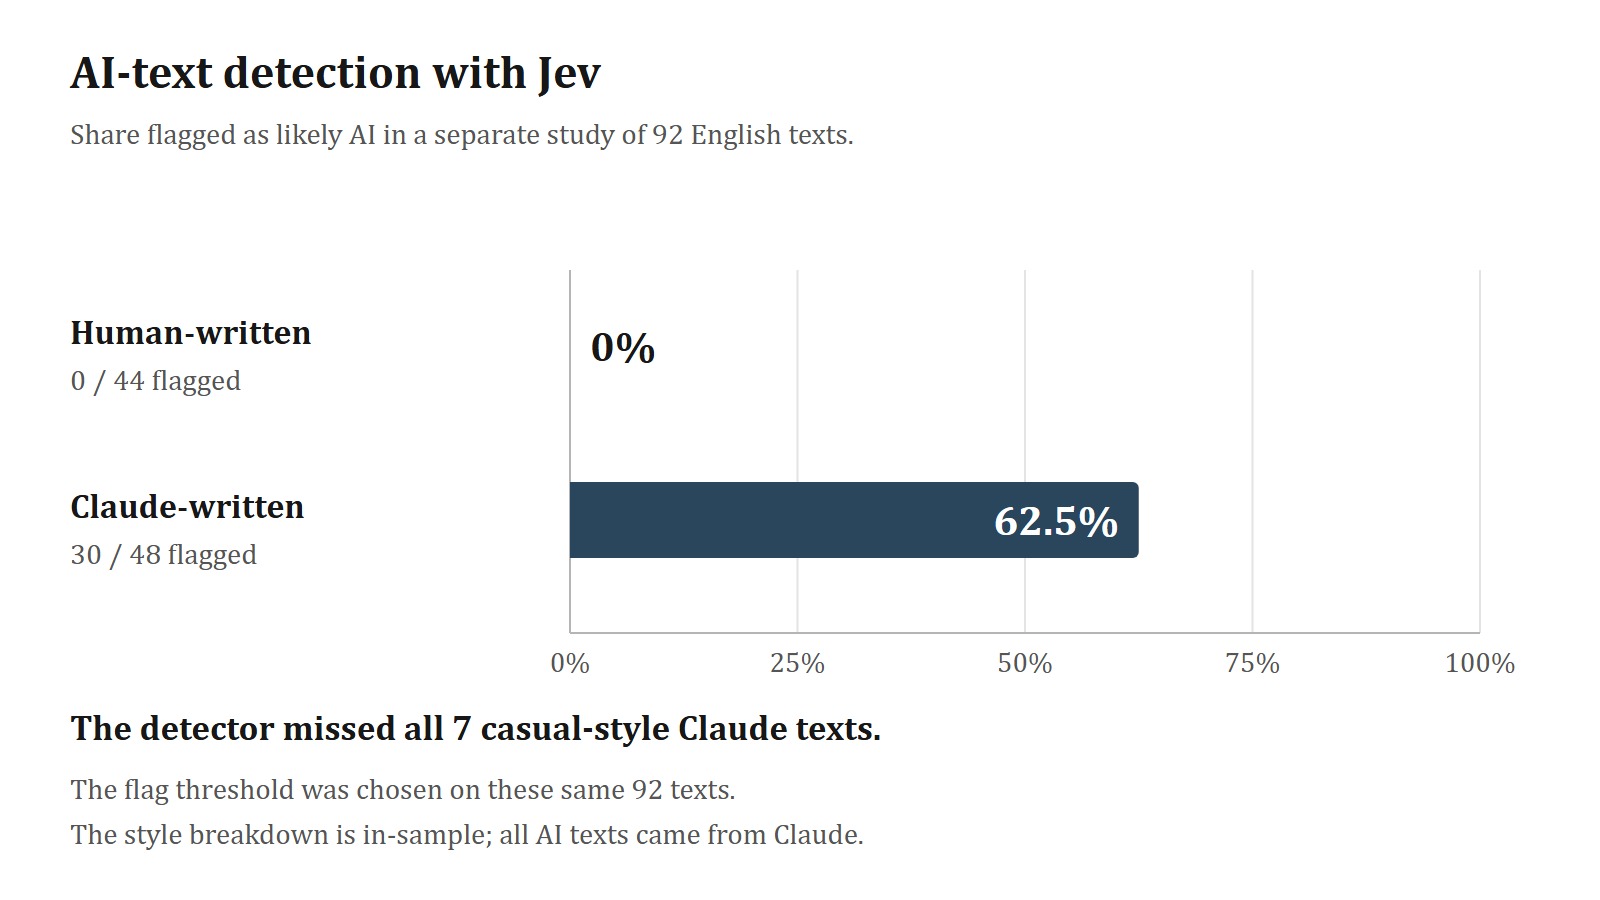
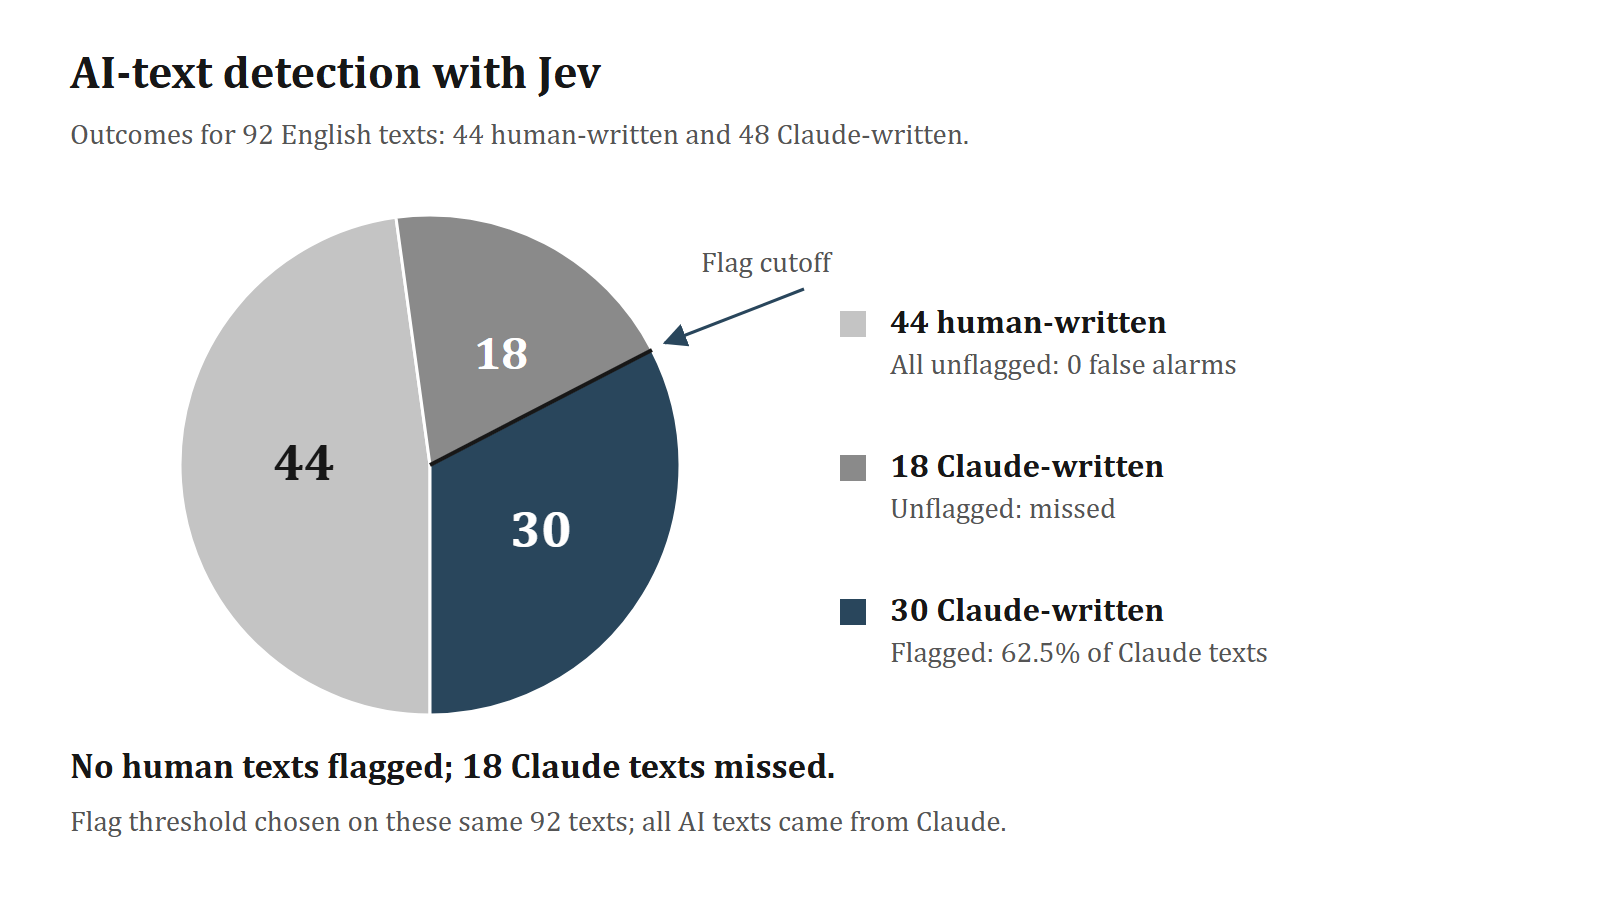
Redraw AI-text figure as 92-text pie

diff --git a/thread/tweets.md b/thread/tweets.md
@@ -32,7 +32,7 @@ On 92 English texts, it flagged 30/48 Claude-written samples and 0/44 human samp
 
 That gave us a useful lesson about turning fast judgments into decisions: the question design and the cases you test can change the story. Our next test was closer to the work we actually want to do.
 
-![In a separate AI-text detection study using Jev, a fitted rule flagged 0 of 44 human-written texts and 30 of 48 Claude-written texts, or 62.5%, as likely AI. It missed all seven casual-style Claude texts in an in-sample breakdown. The flag threshold was chosen on these same 92 texts, and all AI texts came from Claude.](03-ai-text-detection-results.png)
+![A pie divides 92 AI-text detection examples into 44 human-written texts left unflagged, 18 Claude-written texts missed, and 30 Claude-written texts flagged. An arrow marks the detector's flag cutoff between the missed and flagged Claude slices. The threshold was chosen on these same 92 texts, and all AI texts came from Claude.](03-ai-text-detection-results.png)
 
 ## 4/5
 
